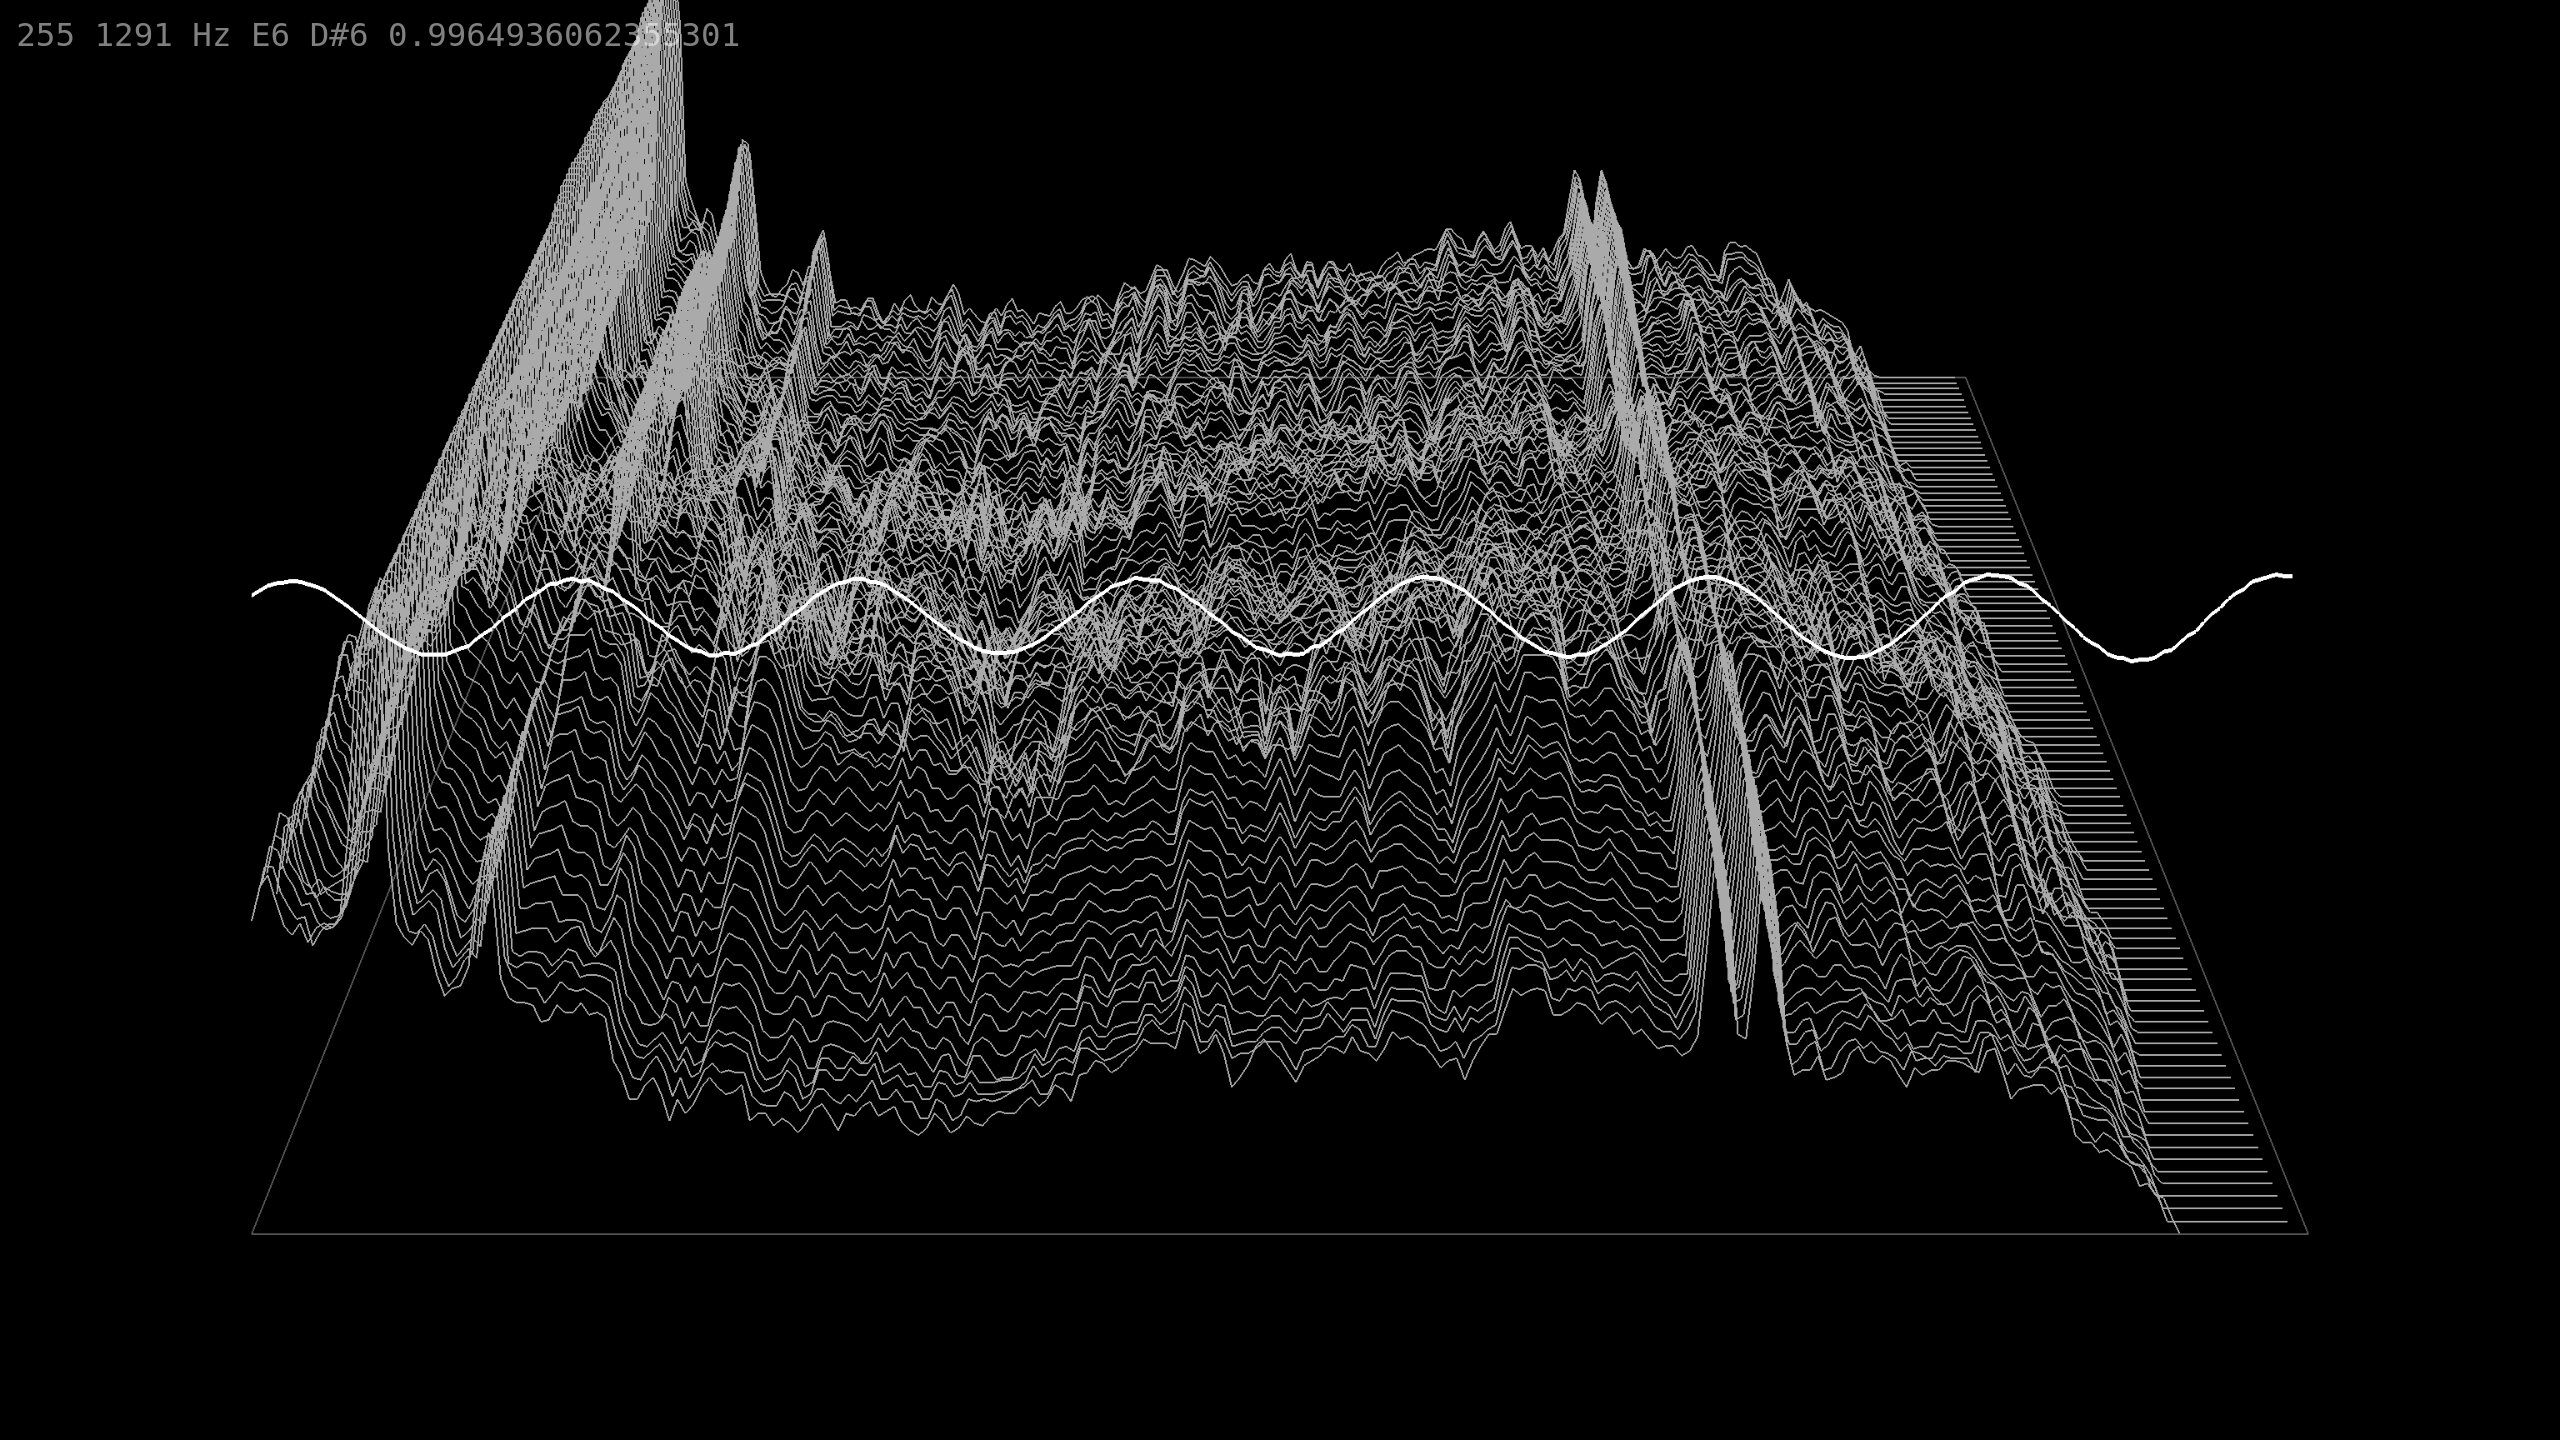
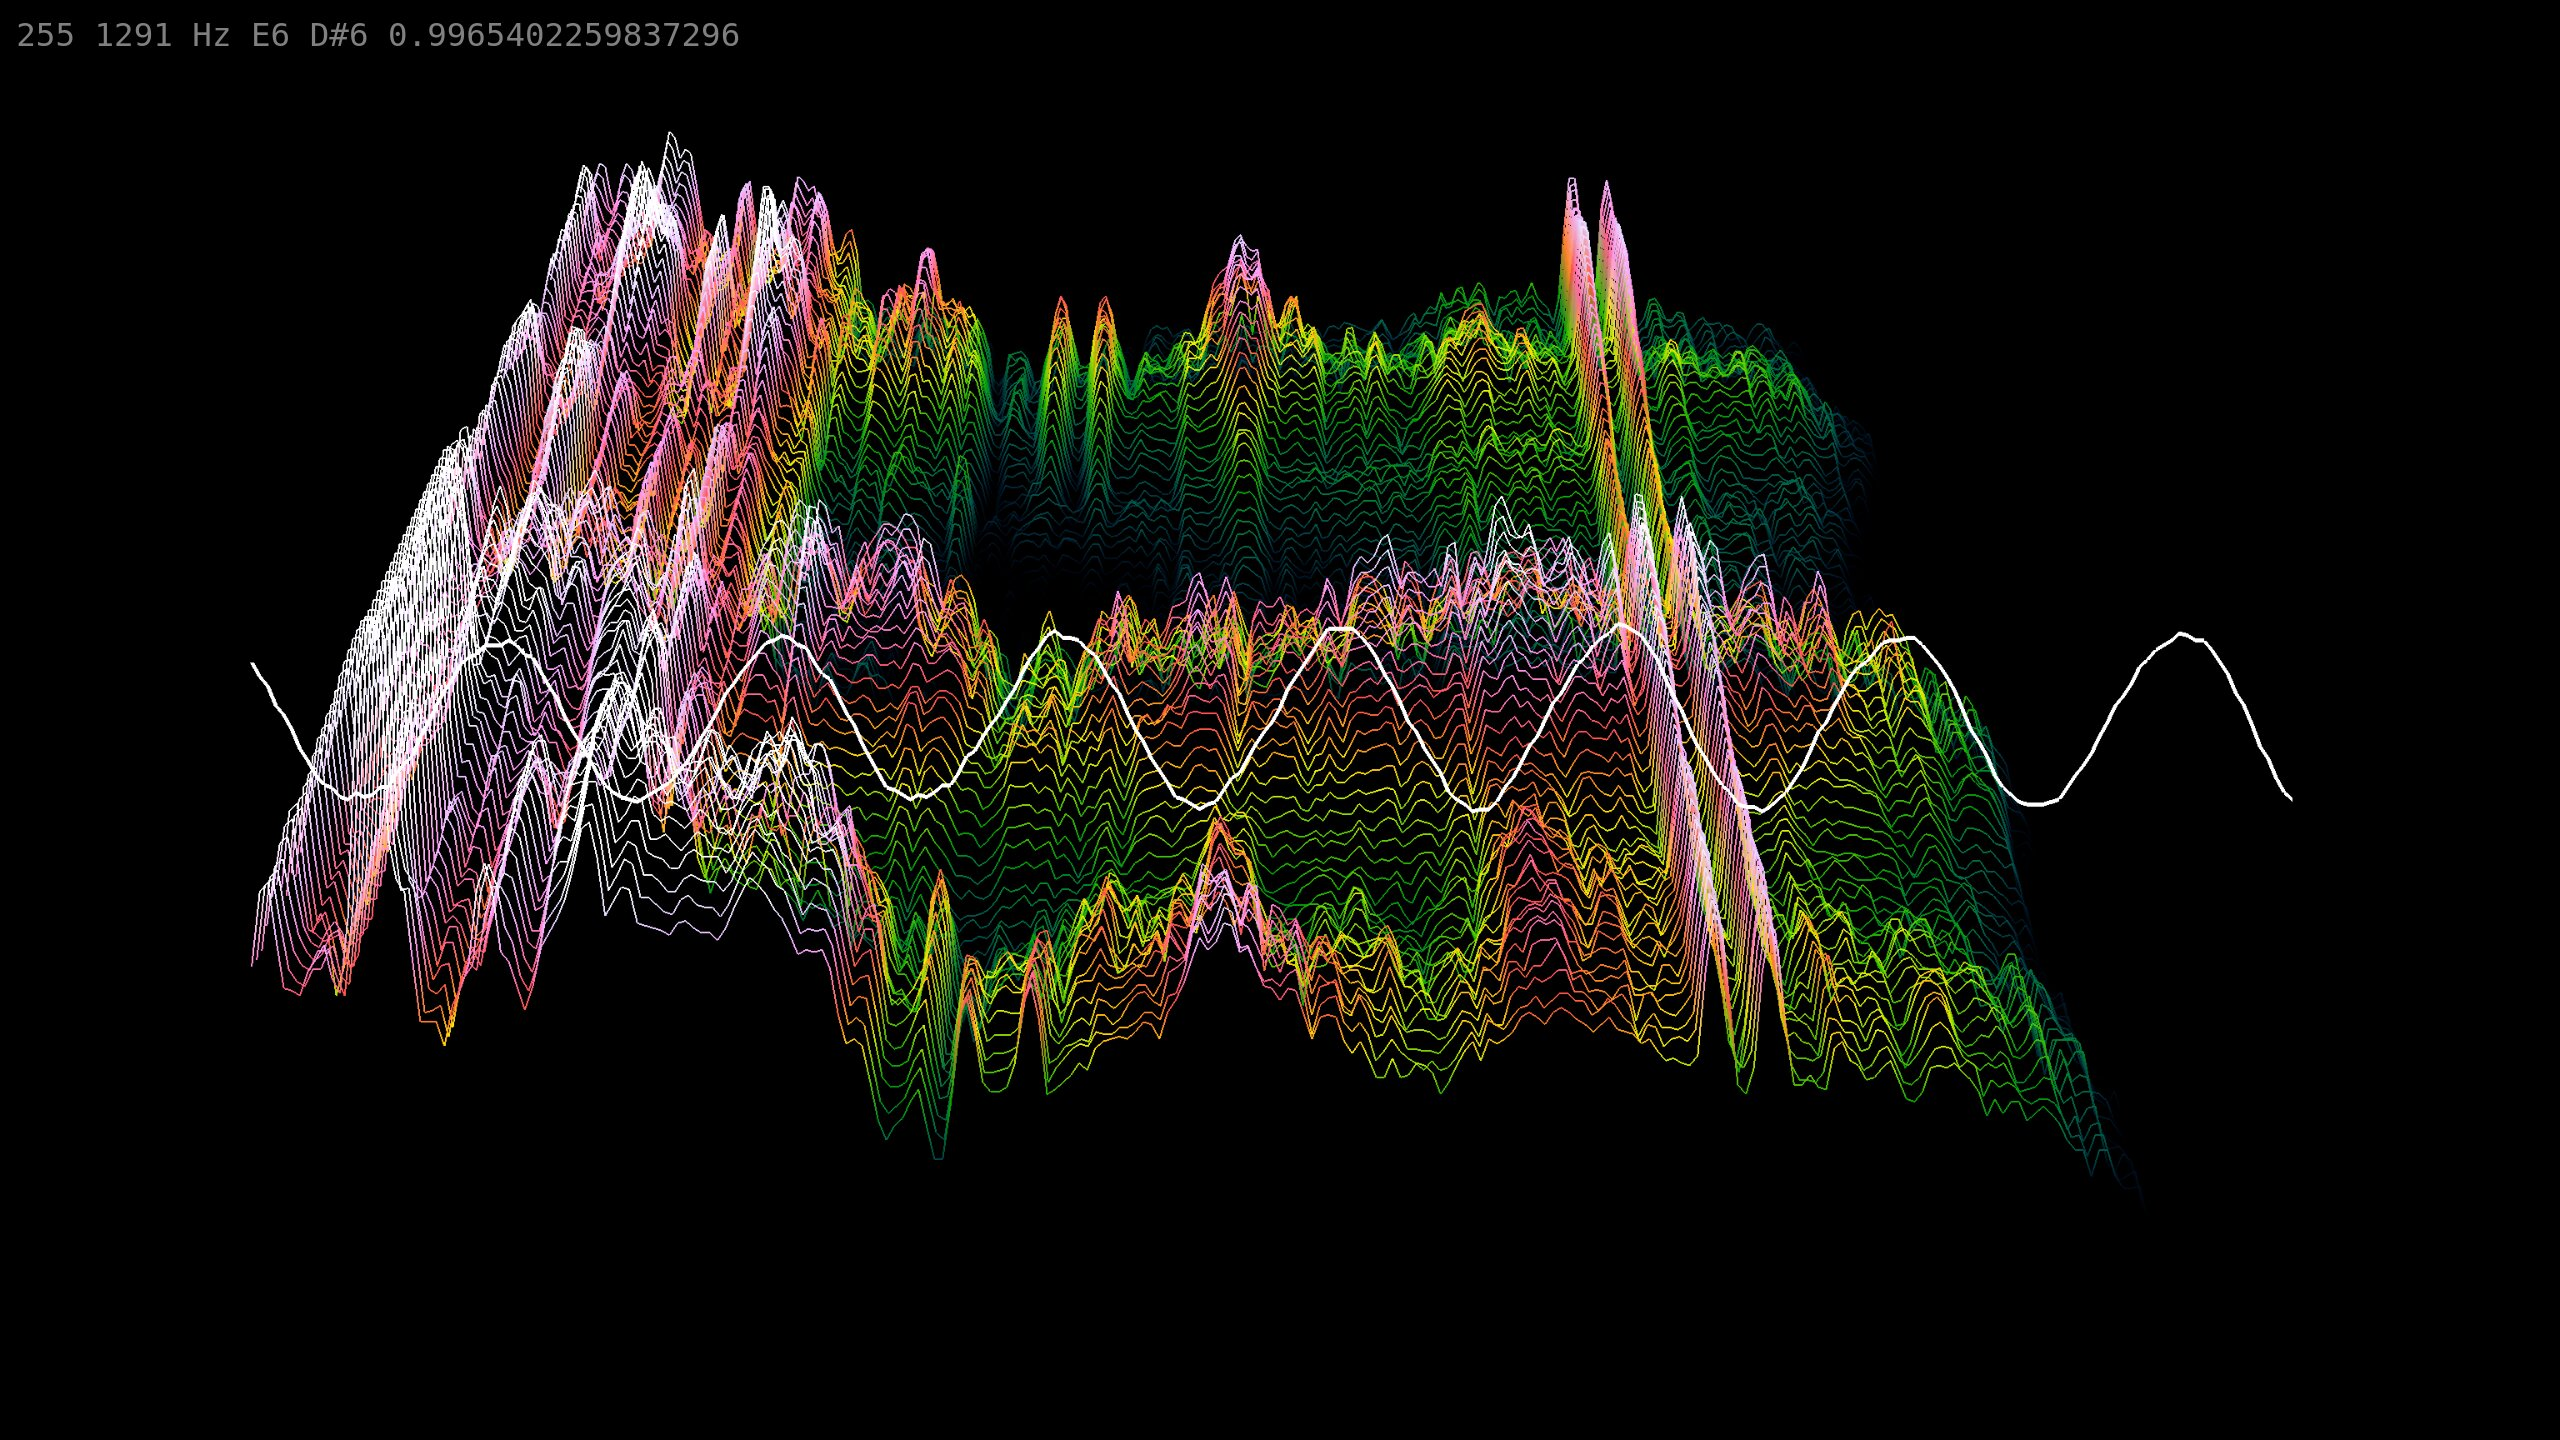
new sample, some changes

Changed region(s): [[0.0938, 0.0, 0.9062, 0.8438]]

diff --git a/src/index.ts b/src/index.ts
@@ -78,7 +78,7 @@ class SignalLineColor extends SignalLine {
     _.times(this.length, index => {
       const normalized = data[index] / 128 || 0
       this.positions[index * 3 + 1] = normalized * this.stretch
-      color.setHSL(0.75 - normalized, 1, normalized)
+      color.setHSL(0.75 - normalized, 1, normalized - 0.1)
       colors.push(color.r, color.g, color.b)
     })
 

diff --git a/index.html b/index.html
@@ -21,10 +21,11 @@
       }
 
       #freq {
-          background-color: rgba(0,0,0,0);
+          background-color: rgba(0,0,0,1);
           color: rgba(255,255,255,0.5);
           font-family: monospace;
           font-size: 3em;
+          height: 1em;
           position: absolute;
           top: .5em;
           left: .5em;
